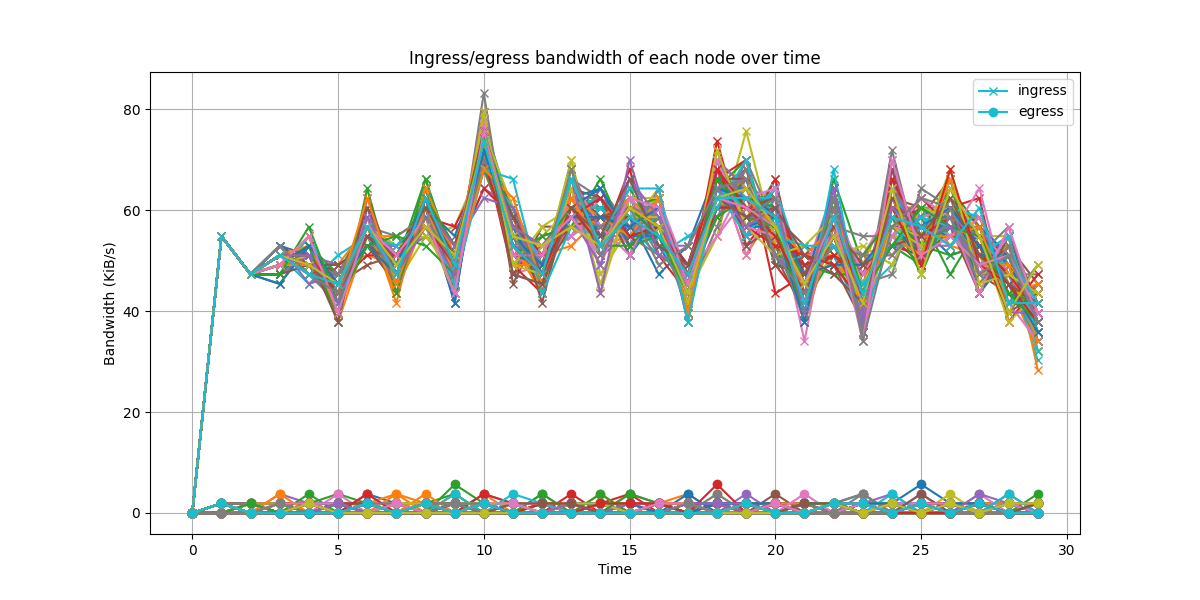
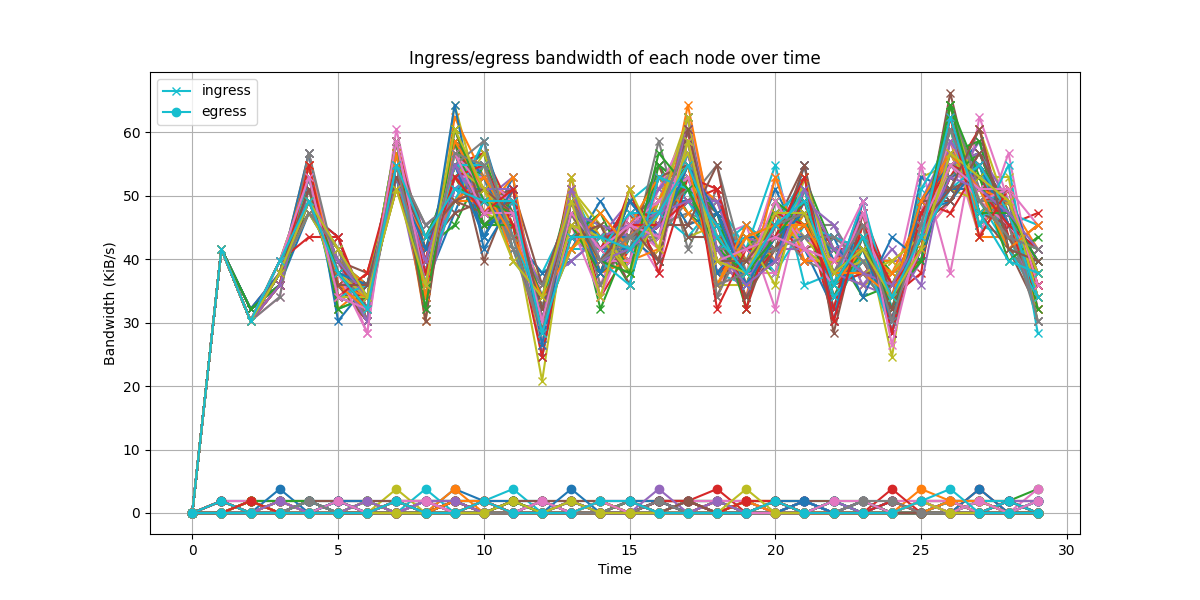
adjust real_message_weight param and set ylim to plots

diff --git a/mixnet/v2/sim/analysis.py b/mixnet/v2/sim/analysis.py
@@ -35,6 +35,7 @@ class Analysis:
         plt.title("Ingress/egress bandwidth of each node over time")
         plt.xlabel("Time")
         plt.ylabel("Bandwidth (KiB/s)")
+        plt.ylim(bottom=0)
         # Customize the legend to show only 'ingress' and 'egress' regardless of node_id
         handles, labels = plt.gca().get_legend_handles_labels()
         by_label = dict(zip(labels, handles))
@@ -75,6 +76,7 @@ class Analysis:
         plt.title("Mixed messages in each mix over time")
         plt.xlabel("Time")
         plt.ylabel("Msg Count")
+        plt.ylim(bottom=0)
         plt.legend(title="Node ID")
         plt.grid(True)
         plt.show()
